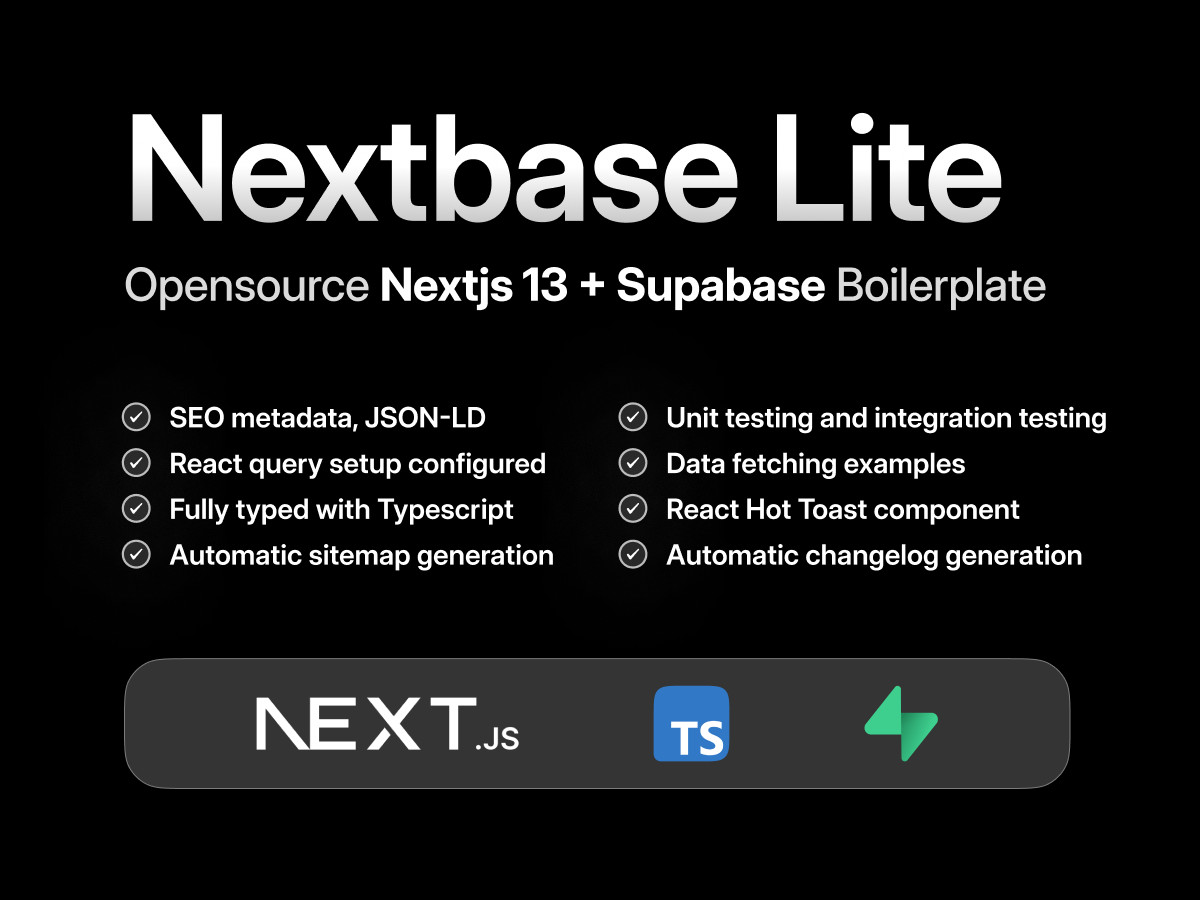
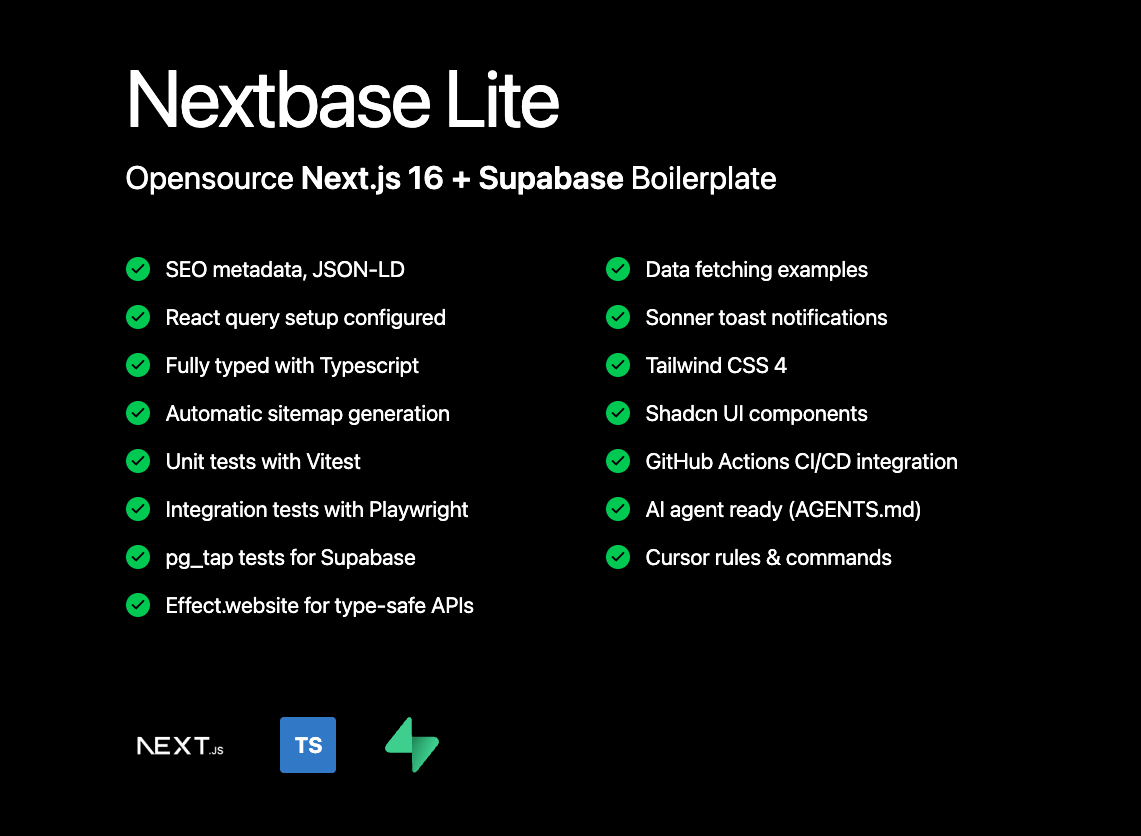
chore: update README.md for Next.js version change
Updated the README to reflect the upgrade from Next.js 13 to Next.js 16. Adjusted the features list accordingly to maintain accurate documentation.

diff --git a/README.md b/README.md
@@ -2,11 +2,11 @@
 
 ![NextBase Lite Open Source Free Boilerplate](https://github.com/imbhargav5/nextbase-nextjs13-supabase-starter/blob/main/.github/litebanner.png?raw=true)
 
-Nextbase Lite is a simple Next.js 13 + Supabase boilerplate. It includes a Next.js 13 app with Typescript, Supabase and Tailwind CSS. It includes the all new `app` folder, `layout` components, React `server components` and more!
+Nextbase Lite is a simple Next.js 16 + Supabase boilerplate. It includes a Next.js 16 app with Typescript, Supabase and Tailwind CSS. It includes the all new `app` folder, `layout` components, React `server components` and more!
 
 ## Features
 
-- 🚀 Next.js 15
+- 🚀 Next.js 16
 - 💻 Data fetching examples in React server and client components. Suspenseful data fetching with minimal loading screens.
 - ⚛️ React query setup configured
 - 🔥 React Hot Toast component